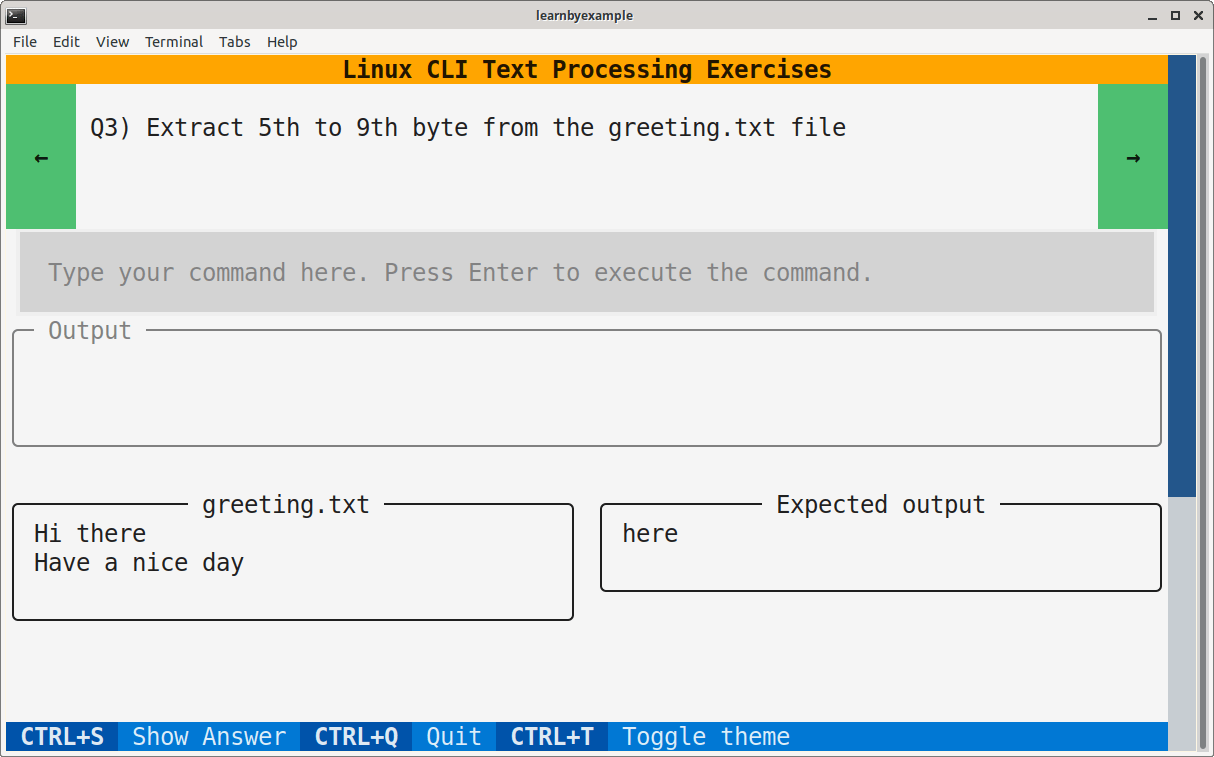
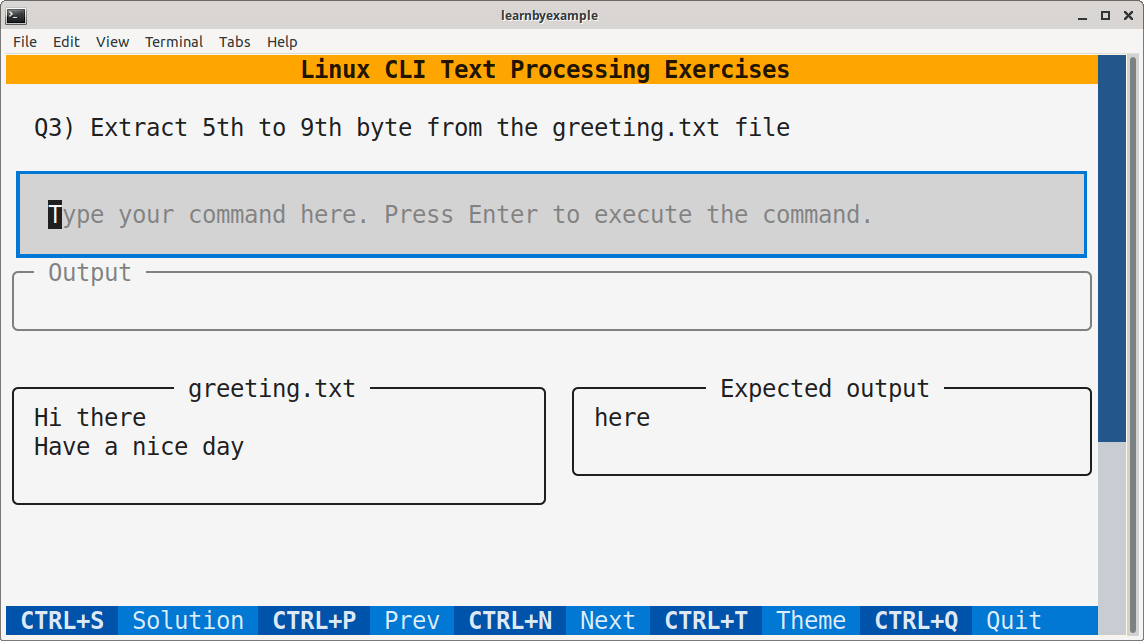
removed buttons, updated css

diff --git a/CLI-Exercises/cli_exercises.css b/CLI-Exercises/cli_exercises.css
@@ -4,40 +4,23 @@
     background: orange;
 }
 
-#question_container {
-    max-height: 5;
-}
-
 Button:focus {
     text-style: bold;
 }
 
-#previous {
-    dock: left;
-    min-width: 5;
-    height: 100%;
-    align: left middle;  
-}
-
-#next {
-    dock: right;
-    min-width: 5;
-    height: 100%;
-    align: left middle;  
-}
-
 #question {
     border: blank;
+    padding: 0 1 0 1;
 }
 
 #user_cmd_output {
-    min-height: 5;
+    min-height: 3;
     margin-bottom: 1;
 }
 
 #sample_input {
     dock: left;
-    width: 49%;
+    width: 50%;
 }
 
 #expected_output {

diff --git a/CLI-Exercises/cli_exercises.py b/CLI-Exercises/cli_exercises.py
@@ -14,18 +14,18 @@ from functools import partial
 class CLIExercisesApp(App):
     CSS_PATH = 'cli_exercises.css'
     BINDINGS = [
-        Binding('ctrl+s', 'show_answer', 'Show Answer', show=True),
+        Binding('ctrl+s', 'show_answer', 'Solution', show=True),
+        Binding('ctrl+p', 'previous', 'Prev', show=True),
+        Binding('ctrl+n', 'next', 'Next', show=True),
+        ('ctrl+t', 'toggle_theme', 'Theme'),
         ('ctrl+c,ctrl+q', 'quit', 'Quit'),
-        Binding('ctrl+p', 'previous', 'Previous', show=False),
-        Binding('ctrl+n', 'next', 'Next', show=False),
-        ('ctrl+t', 'toggle_dark', 'Toggle theme'),
     ]
 
     def __init__(self):
         super().__init__()
+
         with open('questions.json') as f:
-            all_questions = json.load(f)
-        self.questions = tuple(all_questions.values())
+            self.questions = tuple(json.load(f).values())
         self.q_idx = 0
         self.q_max_idx = len(self.questions) - 1
 
@@ -33,9 +33,6 @@ class CLIExercisesApp(App):
         self.sample_input = Label(id='sample_input')
         self.expected_output = Label(id='expected_output')
 
-        self.previous = Button('←', id='previous', variant='success')
-        self.next = Button('→', id='next', variant='success')
-        
         placeholder = 'Type your command here. Press Enter to execute the command.'
         self.user_cmd_input = Input(placeholder=placeholder, id='user_cmd_input')
         self.user_cmd_output = Label(id='user_cmd_output')
@@ -46,20 +43,18 @@ class CLIExercisesApp(App):
             with open(self.progress_file) as f:
                 self.user_progress = {int(k): v for k,v in json.load(f).items()}
             for idx in range(self.q_max_idx):
-                if self.user_progress.get(idx, ('', False))[1]:
-                    self.q_idx = idx + 1
-                else:
+                if not self.user_progress.get(idx, ('', False))[1]:
                     break
+            self.q_idx = idx
         else:
             self.user_progress = {}
 
     def compose(self):
         yield Label('[b]Linux CLI Text Processing Exercises', id='header')
-        yield Container(self.previous, self.question, self.next,
-                        id='question_container')
+        yield self.question
         yield self.user_cmd_input
         yield self.user_cmd_output
-        yield Container(self.sample_input, self.expected_output, id='ip_op')
+        yield Container(self.sample_input, self.expected_output)
         yield Footer()
 
     def on_mount(self):
@@ -70,15 +65,13 @@ class CLIExercisesApp(App):
         self.process_user_cmd()
 
     def process_user_cmd(self):
-        cmd = self.user_cmd_input.value
-        if not self.show_answer_clicked:
-            self.cmd_entered_by_user = cmd
         self.answered_correctly = False
+        self.timed_out = False
         try:
-            result = subprocess.run(cmd, timeout=2,
+            result = subprocess.run(self.user_cmd_input.value, timeout=2,
                                     shell=True, capture_output=True, text=True)
         except subprocess.TimeoutExpired:
-            self.cmd_entered_by_user = ''
+            self.timed_out = True
             msg = ('App might become unresponsive.\n'
                    'Wait a few seconds...\n'
                    'Or, press Ctrl+C to quit (press multiple times if needed).')
@@ -112,9 +105,9 @@ class CLIExercisesApp(App):
                     self.user_cmd_output.update(self.op_panel(result.stdout))
 
     def set_quest_ip_op(self):
-        self.cmd_entered_by_user = ''
+        self.answered_correctly = False
         self.show_answer_clicked = False
-        self.update_button_state()
+        self.timed_out = False
         quest = f"Q{self.q_idx + 1}) {self.questions[self.q_idx]['question']}"
         self.question.update(quest)
 
@@ -142,61 +135,43 @@ class CLIExercisesApp(App):
 
         self.user_cmd_input.focus()
 
-    def on_button_pressed(self, event):
-        button_id = event.button.id
-        if button_id == 'previous':
-            self.previous_quest()
-        elif button_id == 'next':
-            self.next_quest()
-
-    def previous_quest(self):
-        self.save_progress()
-        self.q_idx -= 1
-        self.set_quest_ip_op()
-
-    def next_quest(self):
-        self.save_progress()
-        self.q_idx += 1
-        self.set_quest_ip_op()
-
-    def update_button_state(self):
-        self.previous.disabled = False
-        self.next.disabled = False
-        if self.q_idx == 0:
-            self.previous.disabled = True
-        if self.q_idx == self.q_max_idx:
-            self.next.disabled = True
-
-    def save_progress(self):
-        cmd = self.cmd_entered_by_user
-        if cmd:
-            if self.q_idx in self.user_progress:
-                if (self.user_progress[self.q_idx][0] == cmd
-                    or (self.user_progress[self.q_idx][1]
-                        and not self.answered_correctly)):
-                    return
-            self.user_progress[self.q_idx] = [cmd, self.answered_correctly]
-            with open(self.progress_file, 'w') as f:
-                f.write(json.dumps(self.user_progress, indent=4))
-
-    def action_show_answer(self):
-        self.show_answer_clicked = True
-        self.set_cmd(self.questions[self.q_idx]['ref_solution'])
-
     def set_cmd(self, cmd):
         self.user_cmd_input.value = cmd
         self.user_cmd_input.cursor_position = len(cmd)
         self.process_user_cmd()
 
+    def save_progress(self):
+        cmd = self.user_cmd_input.value
+        if not (self.timed_out or self.show_answer_clicked):
+            if self.q_idx in self.user_progress:
+                if (self.user_progress[self.q_idx][0] == cmd
+                    or (self.user_progress[self.q_idx][1]
+                        and not self.answered_correctly)):
+                    return
+            elif not cmd:
+                return
+            self.user_progress[self.q_idx] = [cmd, self.answered_correctly]
+            with open(self.progress_file, 'w') as f:
+                f.write(json.dumps(self.user_progress, indent=4))
+
+    def action_show_answer(self):
+        self.save_progress()
+        self.show_answer_clicked = True
+        self.set_cmd(self.questions[self.q_idx]['ref_solution'])
+
     def action_previous(self):
-        if not self.previous.disabled:
-            self.previous_quest()
+        if self.q_idx > 0:
+            self.save_progress()
+            self.q_idx -= 1
+            self.set_quest_ip_op()
 
     def action_next(self):
-        if not self.next.disabled:
-            self.next_quest()
+        if self.q_idx < self.q_max_idx:
+            self.save_progress()
+            self.q_idx += 1
+            self.set_quest_ip_op()
 
-    def action_toggle_dark(self):
+    def action_toggle_theme(self):
         self.dark = not self.dark
 
     def action_quit(self):

diff --git a/CLI-Exercises/README.md b/CLI-Exercises/README.md
@@ -2,7 +2,7 @@
 
 This is a **work-in-progress** TUI application to test your CLI text processing skills.
 
-> **Note**
+> **Note**  
 > This application is intended for exercises based on Linux CLI tools. You might still be able to solve the exercises on other platforms, but I'm not sure if it works.
 
 # Installation
@@ -20,25 +20,29 @@ $ cd TUI-apps/CLI-Exercises
 $ python3 cli_exercises.py
 ```
 
-After clicking the **→** button twice, you should get a screen similar to the one shown below:
+After pressing **Ctrl+n** twice, you should get a screen similar to the one shown below:
 
 <p align="center"><img src="./cli_exercises.png" alt="Sample CLI exercises screen" /></p>
 
-# Controls
+# Guide
 
-* Click the **←** and **→** buttons to navigate the questions list.
-* Type the command in the box below the question. Use mouse to click within this box.
+* Press **Ctrl+n** and **Ctrl+p** to navigate the questions list.
+    * You can also click them using mouse from the footer.
+* Type the command in the box below the question. Cursor focus is meant to be always within this box.
 * Press **Enter** to execute the command.
     * `/bin/sh` is the shell used. So, features like `echo {1..3}` (brace expansion) won't work.
     * Output would be displayed below the command box.
     * If the output matches the expected results, the command box will turn *green* and a reference solution will also be shown.
     * Issues due to errors and timeout (about `2` seconds) will be displayed in *red*.
 * Contents of the input file and expected output are shown at the bottom of the screen. You might have to scroll down to view longer files.
-* Press **Ctrl+s** to show answer if you are unable to solve an exercise.
-* Press **Ctrl+q** or **Ctrl+c** to quit the app.
+* Press **Ctrl+s** to show the reference solution if you are unable to solve an exercise.
 * Press **Ctrl+t** to toggle between light and dark themes.
+* Press **Ctrl+q** or **Ctrl+c** to quit the app.
 
-> **Warning**
+> **Note**  
+> Commands you have typed are automatically saved in `user_progress.json`. If you close the application and open it again, the first unsolved question will be displayed (i.e. already solved questions are skipped). If you use **Ctrl+s**, the solution *won't* be saved in `user_progress.json` — you'll have to navigate to another question and back (or close and open the app) to be considered for saving the changes. Once you have solved a question, only another correct solution can override the previously saved command.
+
+> **Warning**  
 > There is no safeguard against the command you are executing. They are treated as if you typed them from a shell session. For example, `ls` will list the contents of the current directory.
 
 # Ebooks
